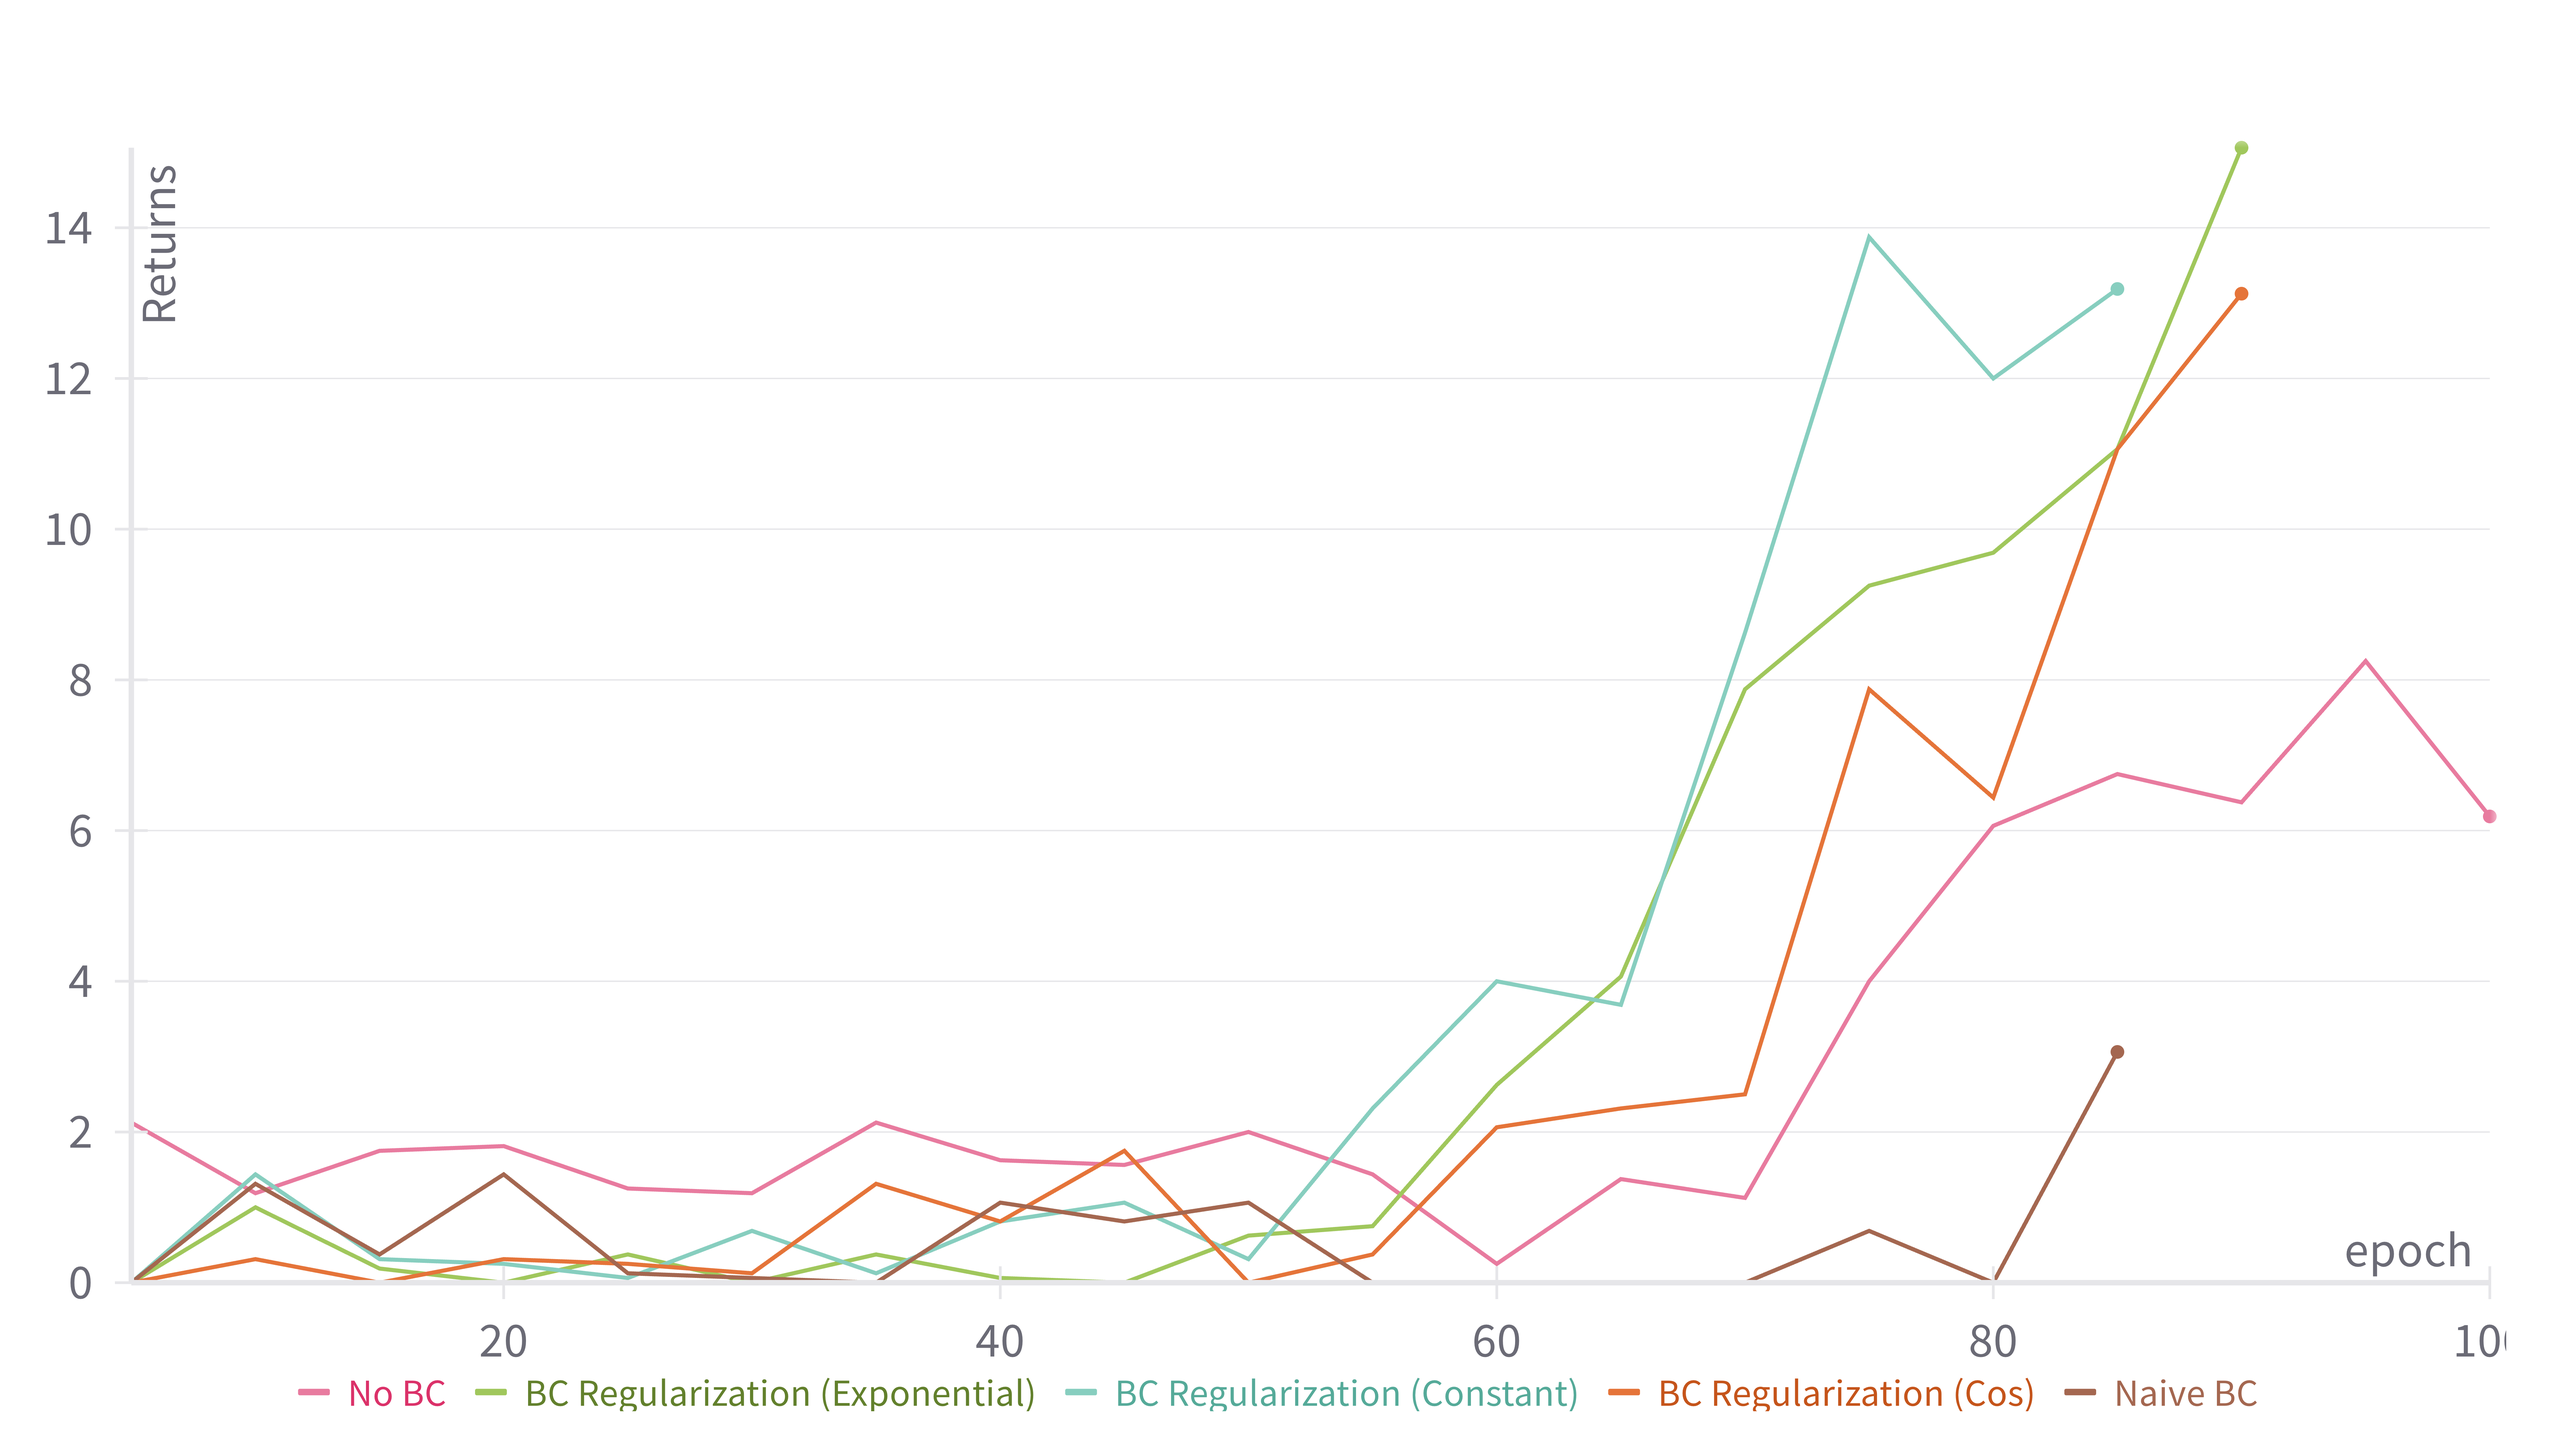
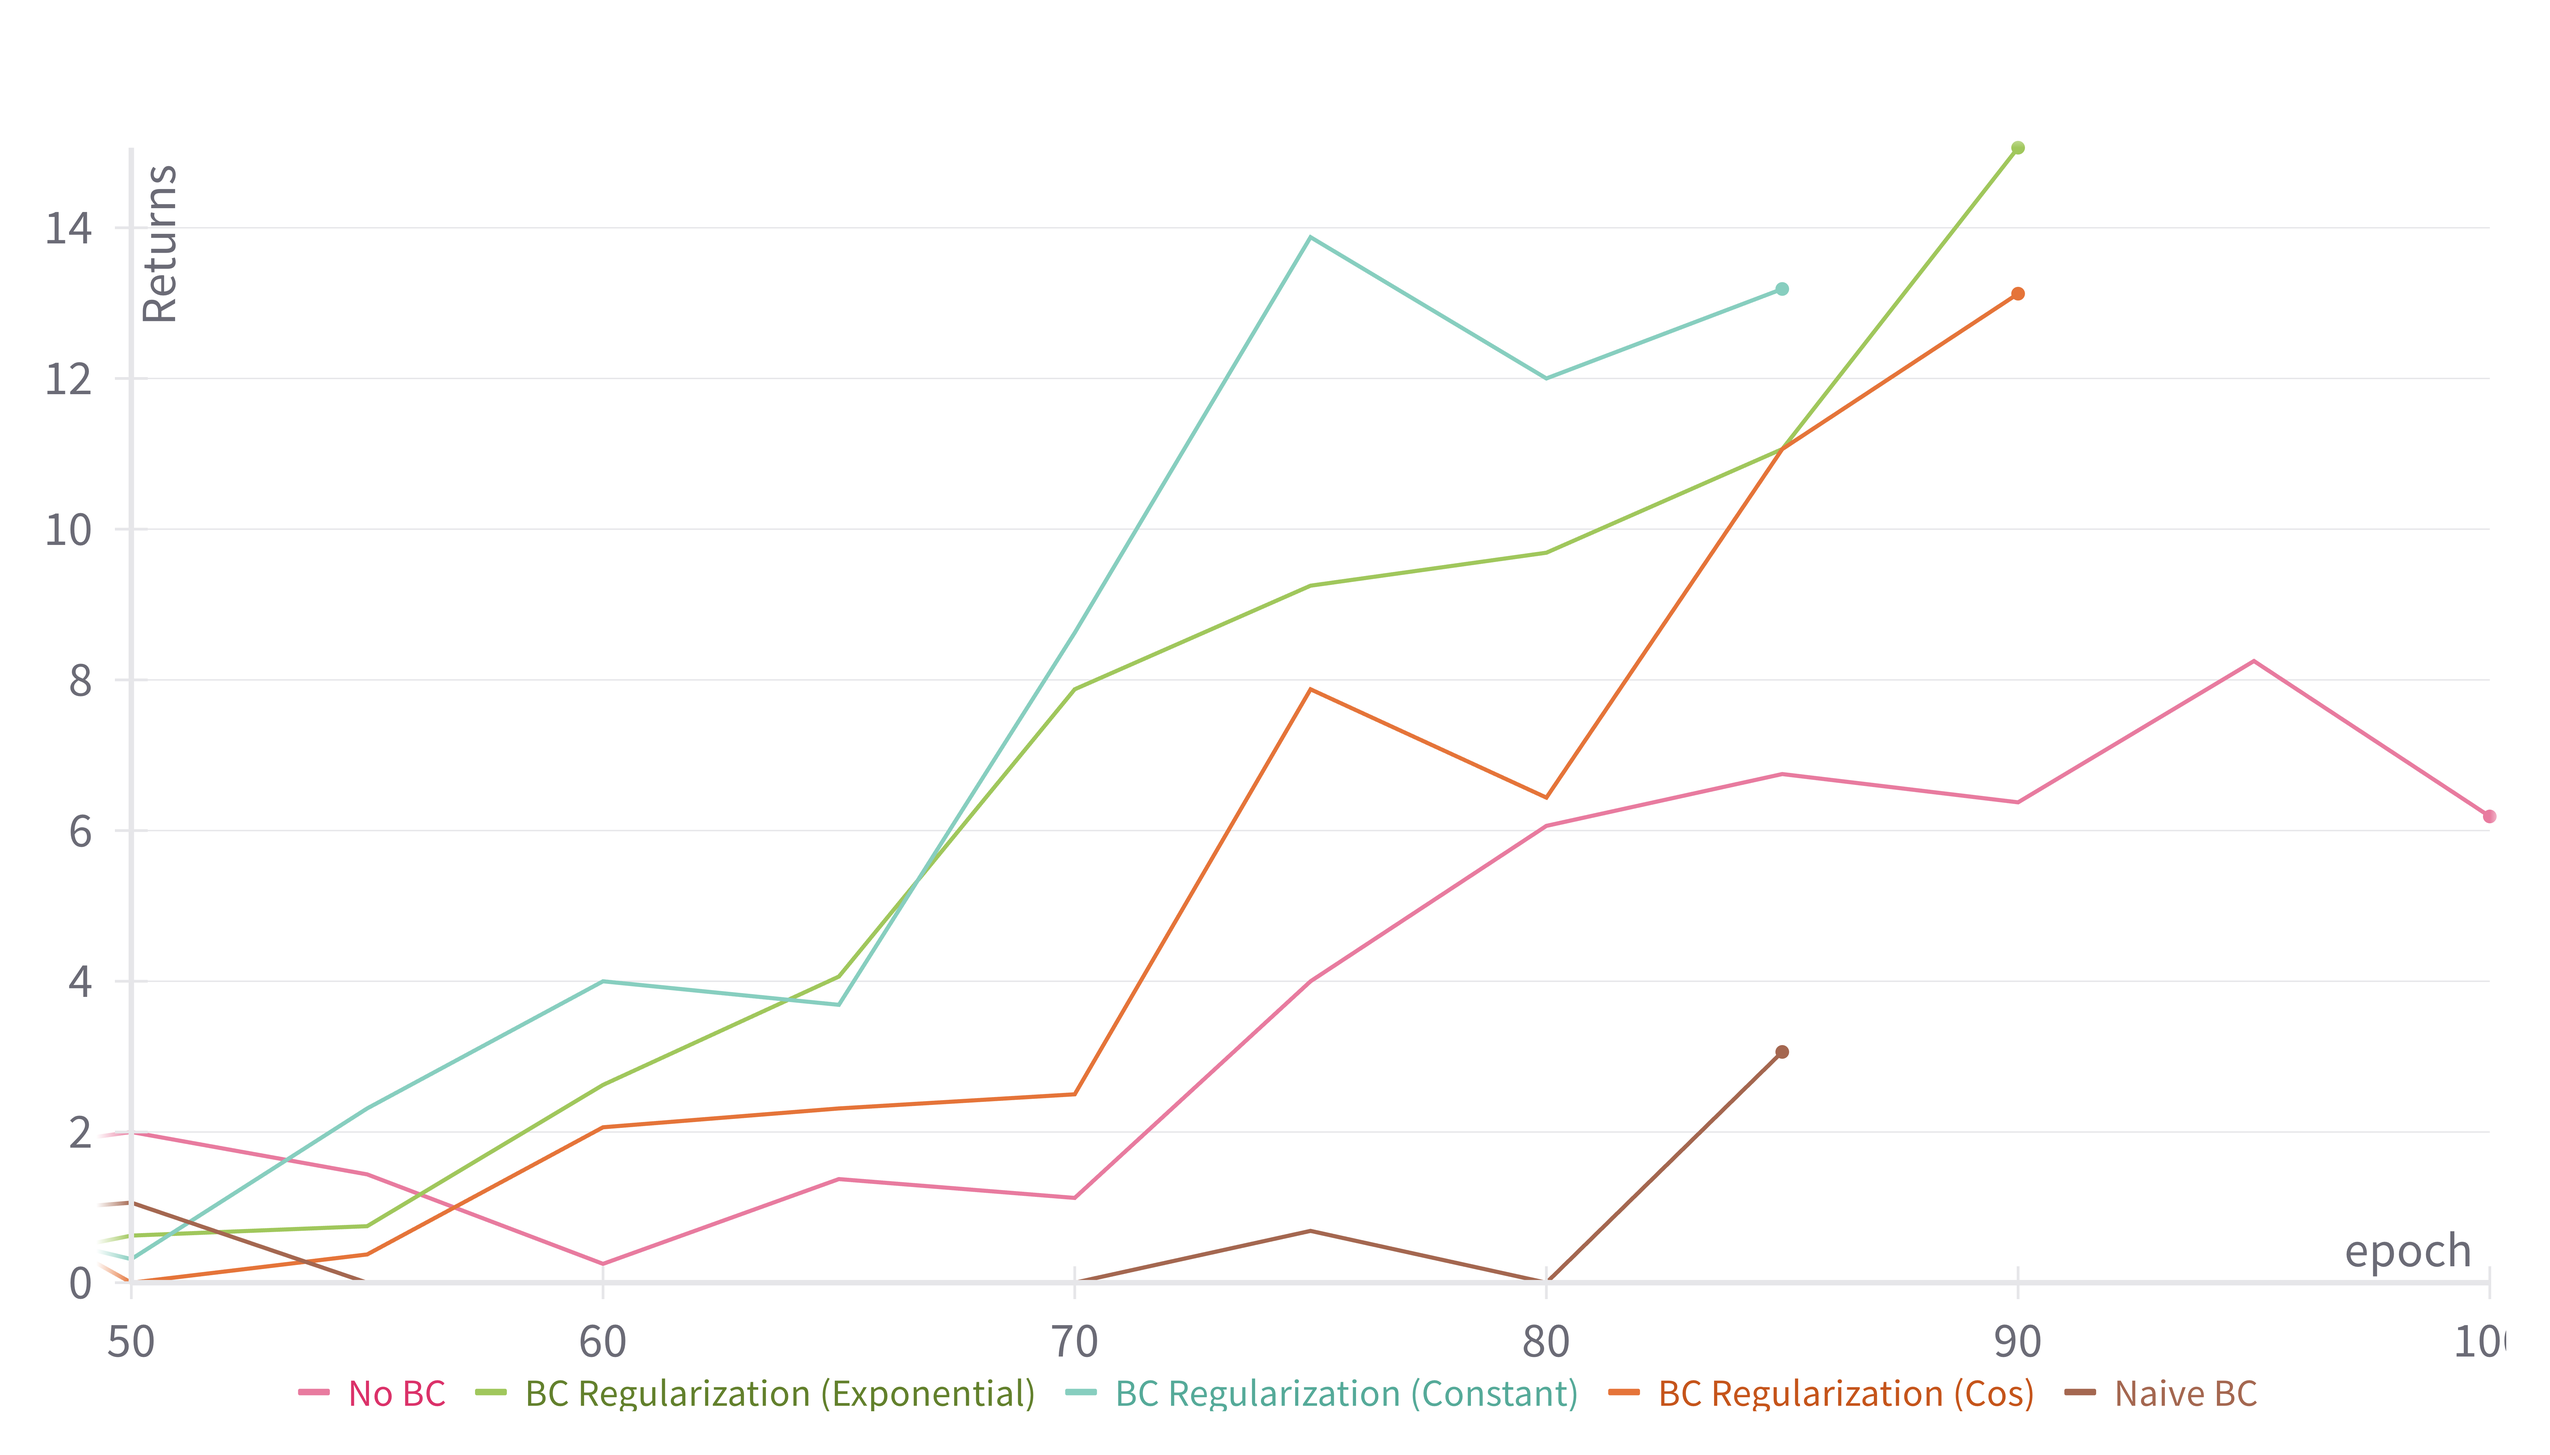
Updated

diff --git a/index.html b/index.html
@@ -206,7 +206,6 @@
         We attempted to use experts from stable-baselines zoo, stable-baselines3 zoo, and Atari Agents before finally settling on AtariARI<cr cite='#bib06'><sup>6<sup></cr>'s PPO agents. Throughout this process, we found that most agents were trained using grayscale observations with the default resized dimensions of 84 x 84.
         <br/><br/>
         We overcame this hurdle by running two environments initialized with the same seed in parallel. We used the first environment to provide grayscale observations to the expert and collected color observations for our dataset from the second environment. 
-        <br/><br/>
       </p>
     </div>
   </section>
@@ -268,32 +267,7 @@
     <div class="container is-max-desktop content">
       <h2 class="title">Results</h2>
       <p> 
-        <!-- Plots -->
-        <div style="text-align: center;">
-          <img src="static/images/breakout/breakout_returns.png" alt="Results" width="80%">
-          <br/>
-        </div>
-        <div style="text-align: center;">
-          <p>Fig. x Evaluation Returns during Training in the Breakout environment  </p>
-        </div>
-        <br/>
-        <div style="text-align: center;">
-          <img src="static/images/demonattack/demonattack_returns.png" alt="Results" width="80%">
-          <br/>
-        </div>
-        
-        <div style="text-align: center;">
-          <p>Fig. x Evaluation Returns during Training in the Demon Attack environment  </p>
-        </div>
-        <br/>
-        <div style="text-align: center;">
-          <img src="static/images/mspacman/mspacman_returns.png" alt="Results" width="80%">
-          <br/>
-        </div>
-      <div style="text-align: center;">
-        <p>Fig. x Evaluation Returns during Training in the Ms Pacman environment  </p>
-      </div>
-      <br/>
+        In Table 
         <!-- Table -->
         <table style="text-align: center;">
           <thead>
@@ -358,7 +332,7 @@
           </tbody>
         </table>
         <div style="text-align: center;">
-          <p>Table 1: Evaluation results of the different configurations of training across environments, averaged over 64 trajectories.</p>
+          <p><strong>Table 1:</strong> Evaluation results of the different configurations of training across environments, averaged over 64 trajectories.</p>
         </div>
       </p>
     </div>
@@ -444,9 +418,37 @@
     <br/>
   </section>
 
+
   <!-- Conclusion -->
   <section class="section" id="Conclusion">
     <div class="container is-max-desktop content">
+      In Figure , we show the evaluation returns during training for each of the environments. 
+        <!-- Plots -->
+        <div style="text-align: center;">
+          <img src="static/images/breakout/breakout_returns.png" alt="Results" width="80%">
+          <br/>
+        </div>
+        <div style="text-align: center;">
+          <p>Fig. x Evaluation Returns during Training in the Breakout environment. We show epochs 50-100 as we begin training the actor at epoch 50.  </p>
+        </div>
+        <br/>
+        <div style="text-align: center;">
+          <img src="static/images/demonattack/demonattack_returns.png" alt="Results" width="80%">
+          <br/>
+        </div>
+        
+        <div style="text-align: center;">
+          <p>Fig. x Evaluation Returns during Training in the Demon Attack environment. We show epochs 50-100 as we begin training the actor at epoch 50.  </p> 
+        </div>
+        <br/>
+        <div style="text-align: center;">
+          <img src="static/images/mspacman/mspacman_returns.png" alt="Results" width="80%">
+          <br/>
+        </div>
+      <div style="text-align: center;">
+        <p>Fig. x Evaluation Returns during Training in the Ms Pacman environment. We show epochs 50-100 as we begin training the actor at epoch 50.  </p>
+      </div>
+      <br/>
       <h2 class="title">Conclusion</h2>
       <p>
         Based on the results, we find that initializing world model training using behavior cloning can have significant positive effects on training. In all three environments, we recorded improvements over the IRIS baseline while maintaining the benefits of both approaches for in-environment sample efficiency. This effect tends to exist for nearly all experiments using BC, though significant variability exists between runs.
